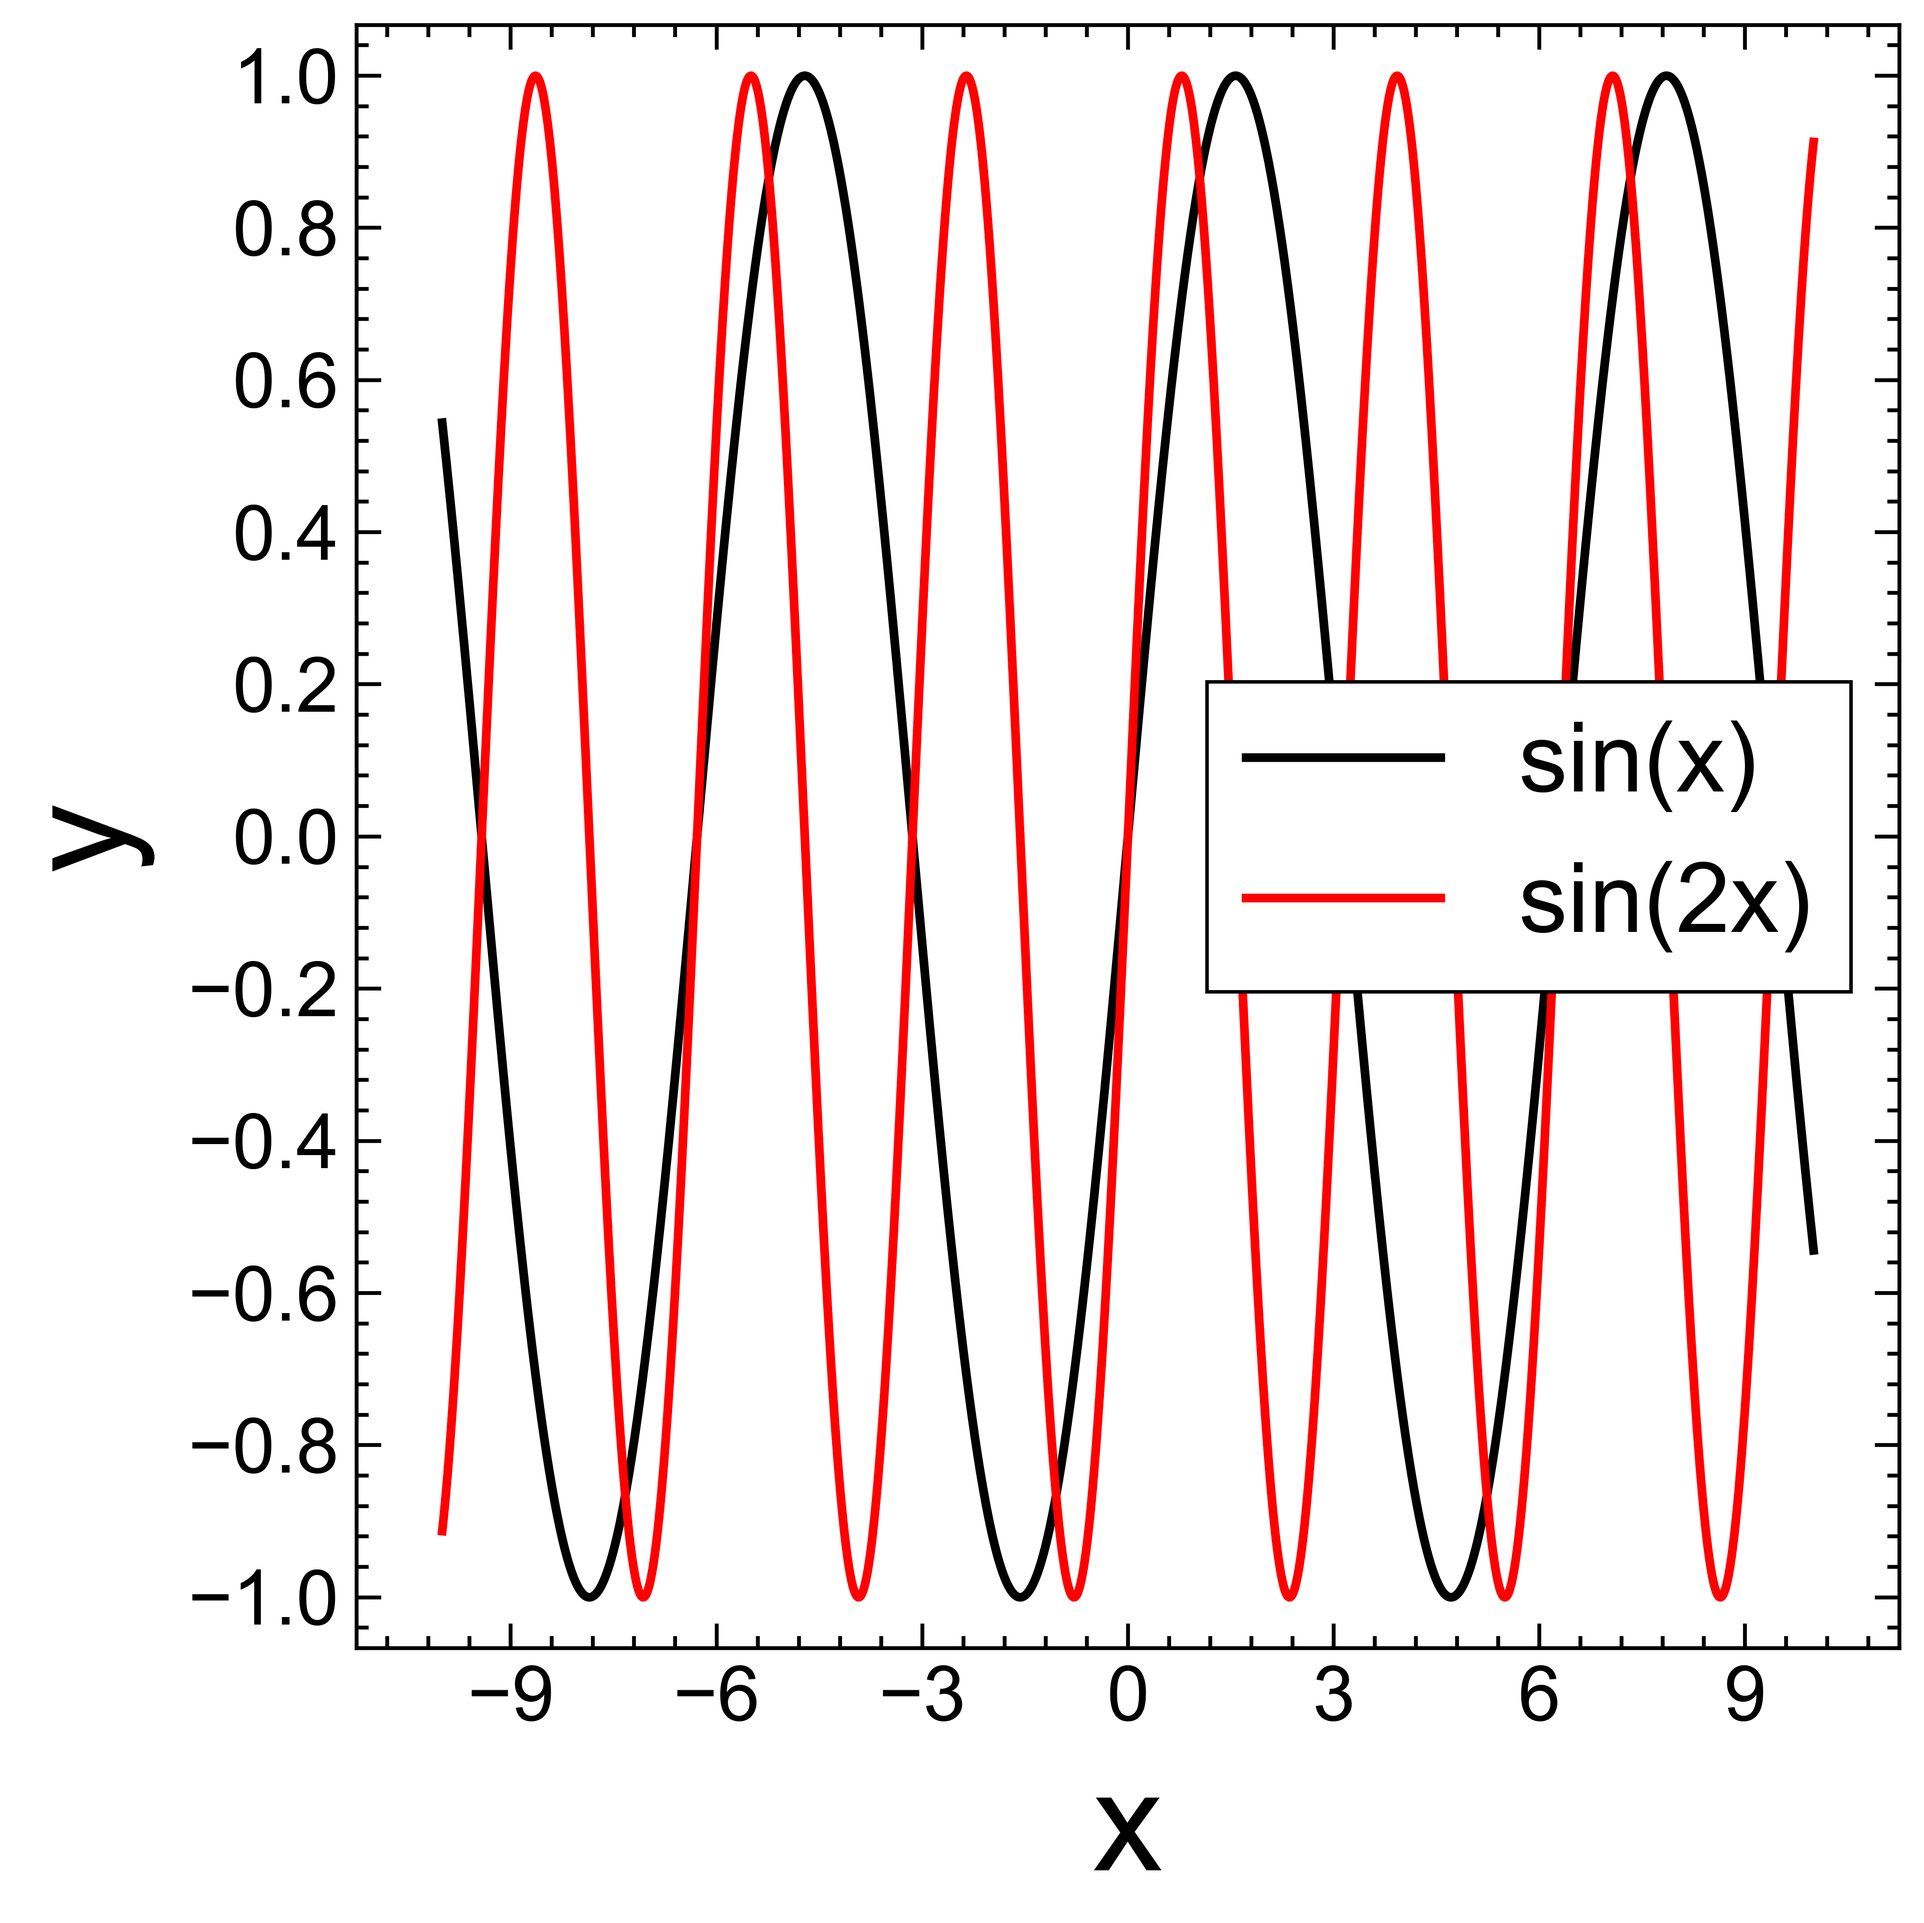
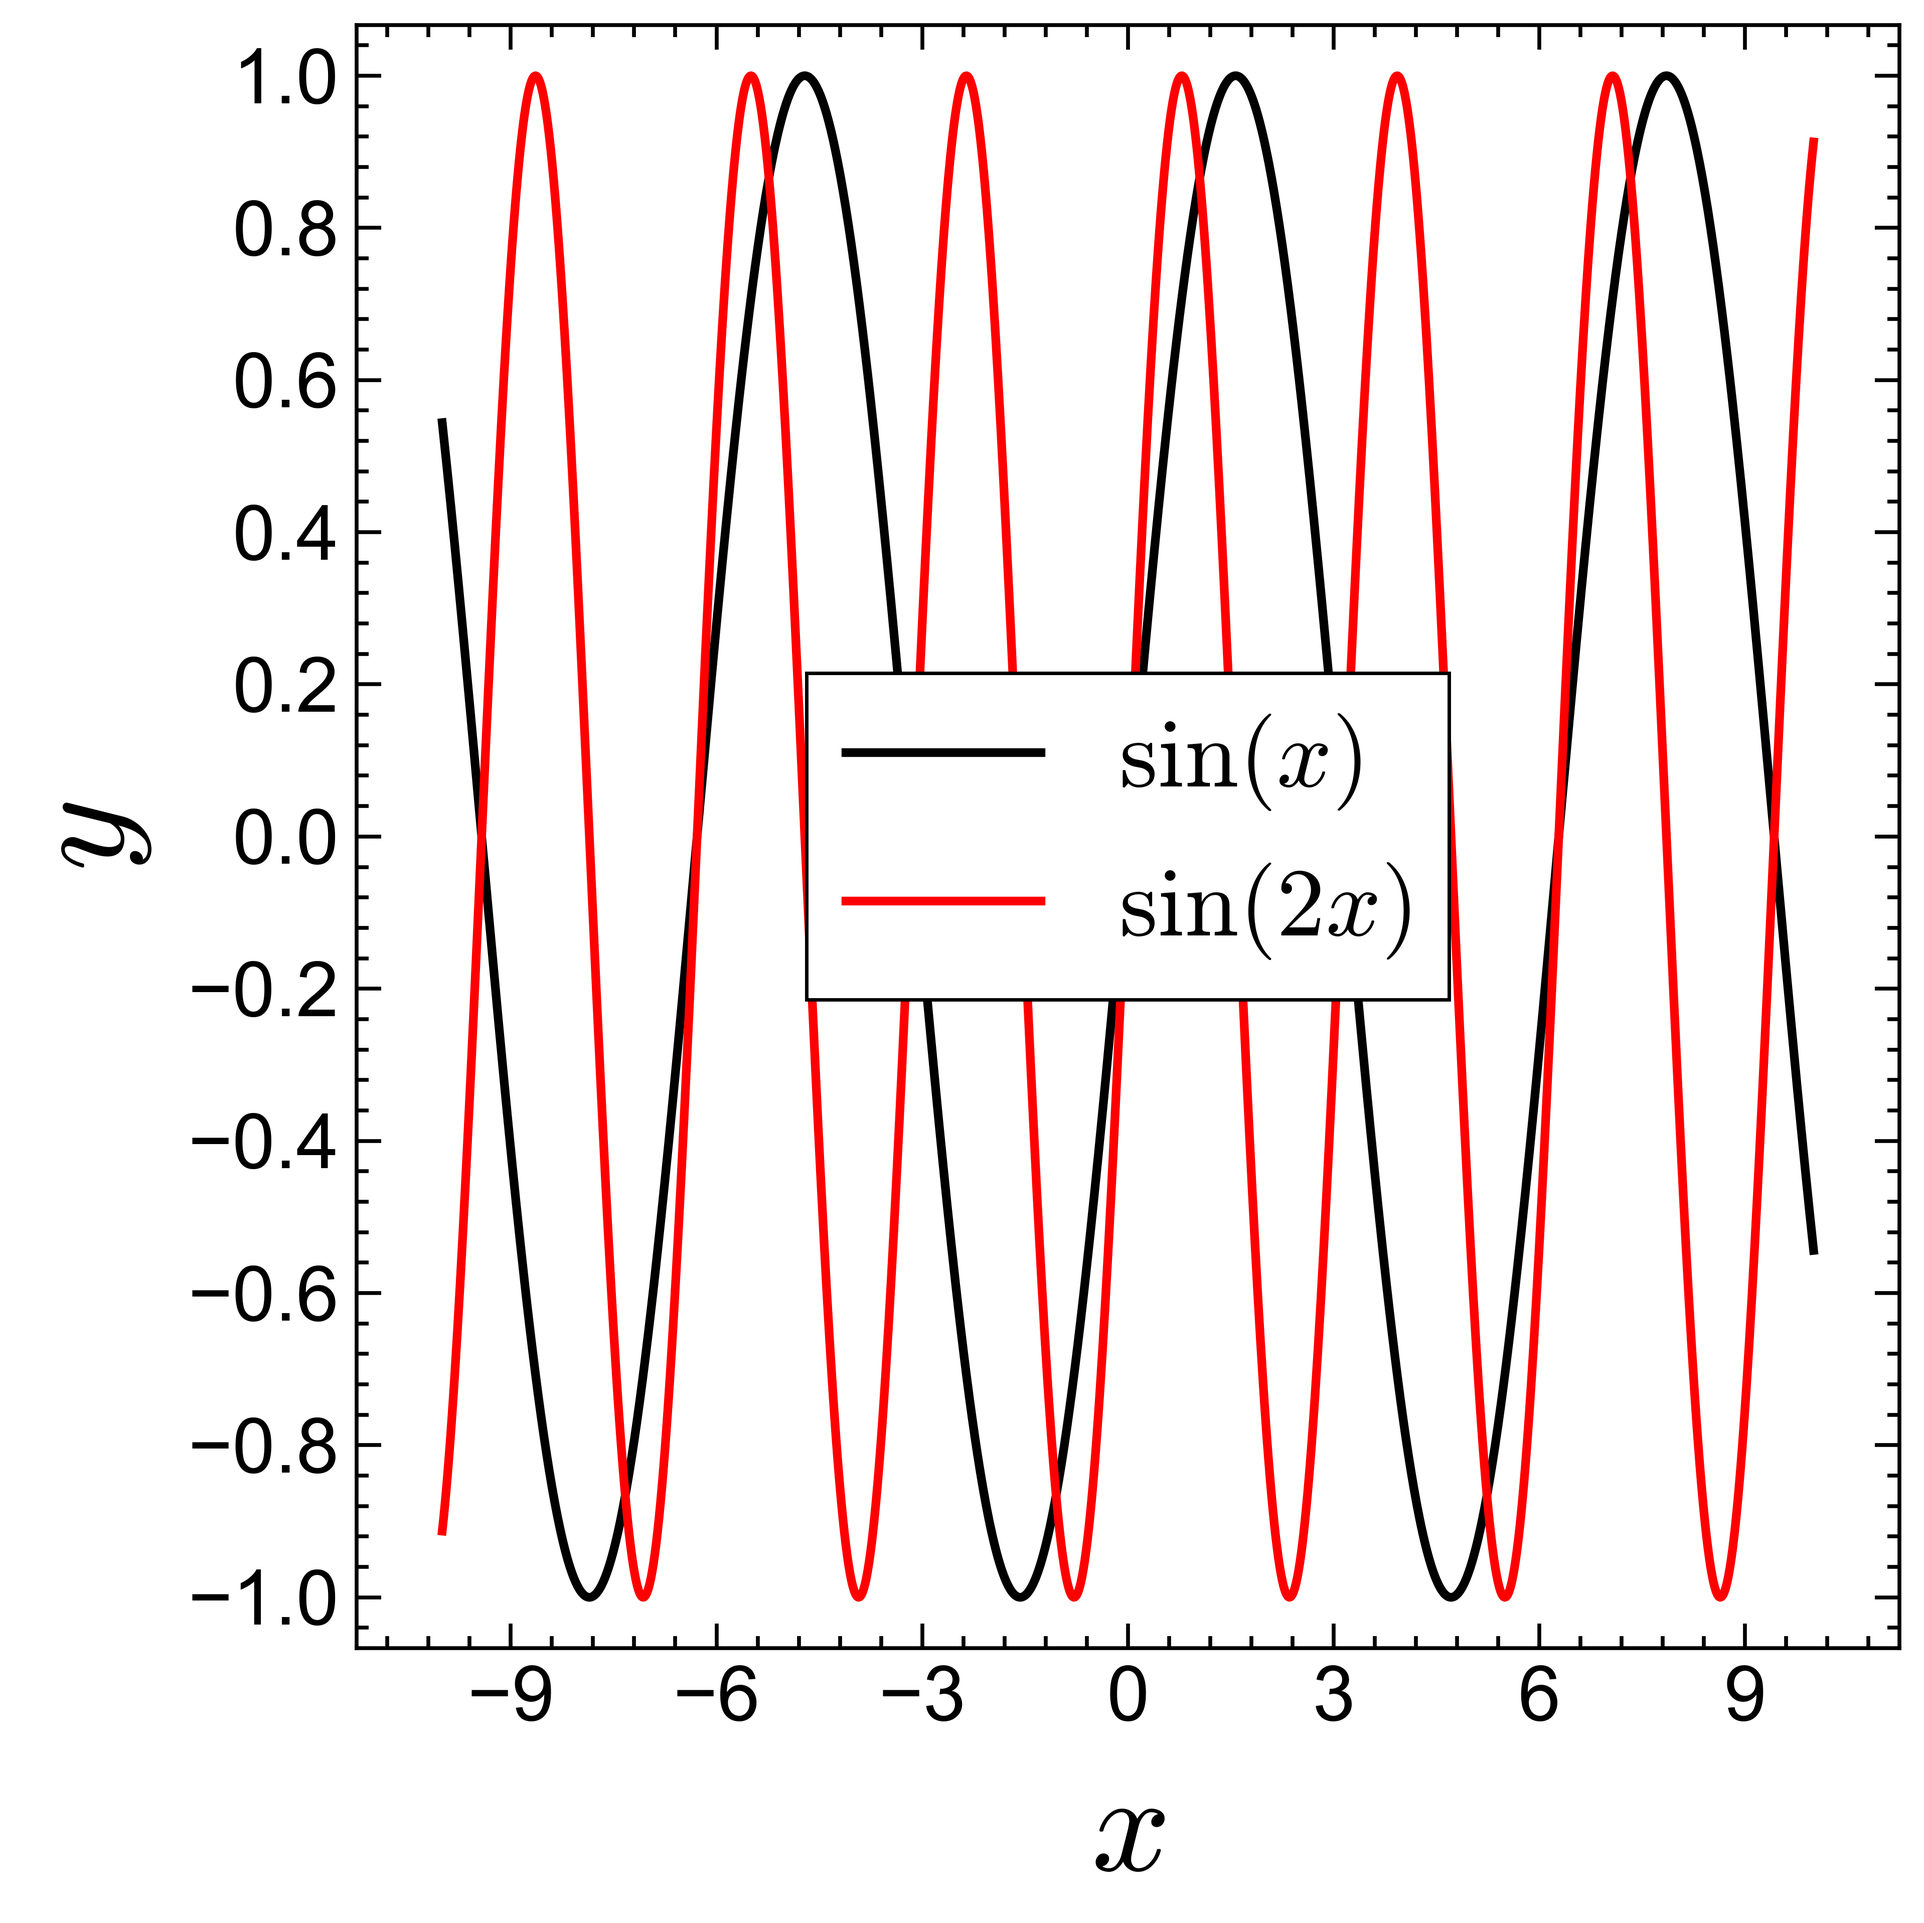
math font

Changed region(s): [[0.4033, 0.3414, 0.9617, 0.5276], [0.5584, 0.9311, 0.6204, 0.9932], [0.031, 0.4035, 0.0931, 0.4656]]

diff --git a/test.py b/test.py
@@ -11,18 +11,18 @@ x = np.linspace(-10, 10, 1000)
 y1 = np.sin(x)
 
 fig, ax = plt.subplots()
-PlottaLine(ax, x, y1, label="sin(x)")
+PlottaLine(ax, x, y1, label=r"$\sin(x)$")
 
 y2 = np.sin(2.0 * x)
-PlottaLine(ax, x, y2, label="sin(2x)")
+PlottaLine(ax, x, y2, label=r"$\sin(2x)$")
 
 nY = np.concatenate([y1, y2])
 nX = np.concatenate([x, x])
 
 FixScale(ax, nX, nY, pady=1/15, padx=1/8, mirrorx=True, mirrory=True)
 FixTicks(ax, 5, 5, 3, 0.2)
-ax.set_xlabel("x")
-ax.set_ylabel("y")
+ax.set_xlabel("$x$")
+ax.set_ylabel("$y$")
 ax.legend()
 
 fig.savefig("2dNoFit.png", dpi=500, bbox_inches='tight')
